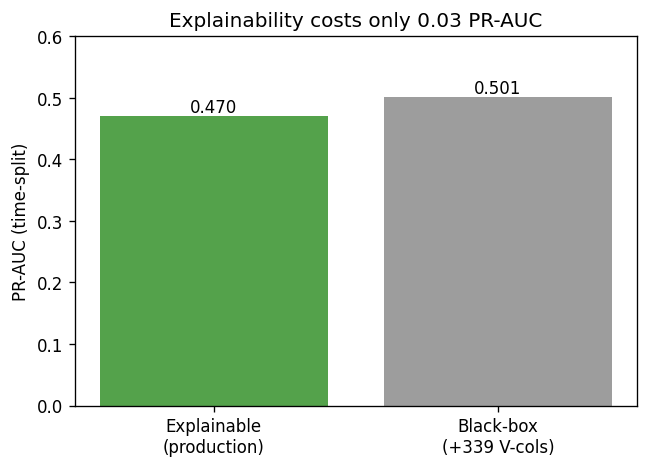
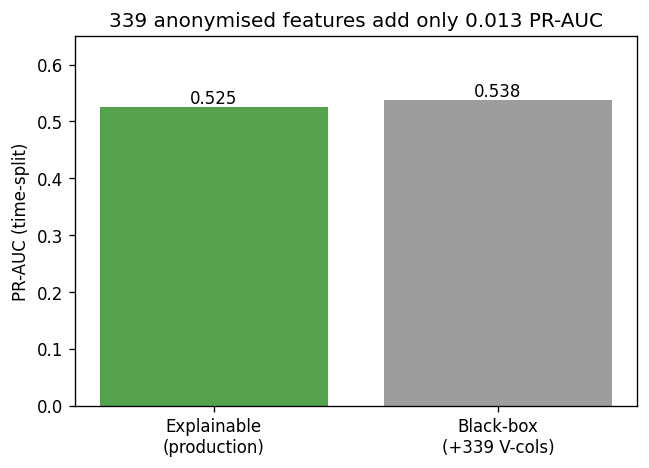
Stronger explainable model: PR-AUC 0.525 / ROC-AUC 0.90 (>0.5), beats prior black-box
- Use all DOCUMENTED features (C1-14, D1-15, M1-9, distances, card/email/device/identity,
  hour) + engineered sharper customer id, cross-account sharing, leak-free per-customer
  baseline. Exclude only the 339 anonymised V-columns.
- Fair black-box (explainable + V): 0.538 PR-AUC / 0.901 ROC-AUC, so V adds only +0.013.
- Honest finding: per-customer baseline barely moves thin-history card data (~2.6 txns
  per customer); it is the right approach for repeat-user platforms (exchanges).
- Add explore_features.py (EDA) for reproducibility; update approach/results/chart.

diff --git a/src/model_explainable.py b/src/model_explainable.py
@@ -1,93 +1,120 @@
 """
-EXPLAINABLE fraud model (the centrepiece).
+EXPLAINABLE fraud model (centrepiece).
 
-Deliberate, defensible decisions (this is the interview script):
-  * Features you can explain the fraud logic for — amount, association COUNTS (C*),
-    days-since-prior-activity (D*), name/address MATCH flags (M*), card type/network,
-    product code, email domain, device type, PLUS an engineered "how many accounts
-    share this device / email" signal (a fraud-ring tell). NO anonymised V-columns.
-  * TIME-BASED validation: train on earlier transactions, test on later ones — no
-    peeking at the future (a random split inflates results and hides production drift).
-  * Operational THRESHOLD: report precision/recall at several alert volumes, not just 0.5,
-    so the alarm line can be set on the cost of a missed fraud vs a false accusation.
-  * Explainability: permutation importance (what drives the score) + worked examples.
+The line we draw: use EVERY feature whose meaning is documented — transaction amount,
+all association COUNTS (C1-C14), all time-deltas (D1-D15), match flags (M1-M9),
+distances, card/email/device/identity signals, hour-of-day — PLUS engineered,
+explainable entity features: a sharper customer id, cross-account device/email sharing,
+and a leak-free per-customer behavioural baseline (their own normal vs this transaction).
+We EXCLUDE only the 339 fully-anonymised V-columns (you can't explain "V257").
 
-Writes dbt_marts.txn_risk / dbt_marts.user_risk (scored with this, the production model).
+Validation is TIME-BASED (train earlier, test later). Reports PR-AUC and ROC-AUC.
+Importable: model_blackbox.py reuses prepare() and adds the V-columns for the comparison.
 """
 import numpy as np
 import pandas as pd
 from sklearn.ensemble import HistGradientBoostingClassifier
 from sklearn.inspection import permutation_importance
-from sklearn.metrics import average_precision_score, precision_score, recall_score
+from sklearn.metrics import average_precision_score, roc_auc_score, precision_score, recall_score
 from db import get_con, write_table
 
-NUMERIC = ["amount", "c1", "c2", "c5", "c13", "c14", "d1", "d4", "d10", "d15",
-           "device_share", "email_share"]
-CATEGORICAL = ["card_network", "card_type", "product_cd", "p_emaildomain", "devicetype",
-               "m1", "m2", "m3", "m4", "m5", "m6", "m7", "m8", "m9"]
+C = [f"c{i}" for i in range(1, 15)]
+D = [f"d{i}" for i in range(1, 16)]
+M = [f"m{i}" for i in range(1, 10)]
+NUMERIC = (["amount", "hr", "dist1", "dist2", "addr1", "addr2", "id_01", "id_02", "id_05", "id_06",
+            "device_share", "email_share",
+            "uid_prior_count", "time_since_prior", "uid_prior_mean_amt",
+            "amount_z_individual", "amount_z_profile"] + C + D)
+CATEGORICAL = (["card_network", "card_type", "product_cd", "p_emaildomain", "r_emaildomain",
+                "devicetype", "has_identity", "new_device"] + M)
+
+SELECT = """
+    SELECT transactionid tid, isFraud y, transactiondt, transactionamt amount,
+           card1, card2, card3, card5, addr1, addr2, dist1, dist2,
+           card4 card_network, card6 card_type, productcd product_cd,
+           p_emaildomain, r_emaildomain, devicetype, deviceinfo,
+           id_01, id_02, id_05, id_06,
+           c1,c2,c3,c4,c5,c6,c7,c8,c9,c10,c11,c12,c13,c14,
+           d1,d2,d3,d4,d5,d6,d7,d8,d9,d10,d11,d12,d13,d14,d15,
+           m1,m2,m3,m4,m5,m6,m7,m8,m9
+    FROM raw.transactions
+"""
 
 
-def load(con):
-    df = con.execute("""
-        SELECT transactionid AS tid, isFraud AS y, transactiondt AS dt,
-               transactionamt AS amount, card1, addr1,
-               card4 AS card_network, card6 AS card_type, productcd AS product_cd,
-               p_emaildomain, devicetype, deviceinfo,
-               c1,c2,c5,c13,c14, d1,d4,d10,d15, m1,m2,m3,m4,m5,m6,m7,m8,m9
-        FROM raw.transactions
-    """).df()
-    df.columns = df.columns.str.lower()   # DuckDB keeps original case for unaliased cols
-    df["client_id"] = df.card1.astype("Int64").astype(str) + "-" + df.addr1.astype("Int64").astype(str)
-    # engineered fraud-ring signals: distinct accounts sharing a device / email domain
-    df["device_share"] = df.groupby("deviceinfo")["client_id"].transform("nunique").where(df.deviceinfo.notna(), 1)
-    df["email_share"] = df.groupby("p_emaildomain")["client_id"].transform("nunique").where(df.p_emaildomain.notna(), 1)
+def engineer(df):
+    df.columns = df.columns.str.lower()
+    day = np.floor(df.transactiondt / 86400)
+    df["hr"] = np.floor((df.transactiondt % 86400) / 3600)
+    df["account_birthday"] = day - df.d1
+    df["has_identity"] = df.devicetype.notna()
+
+    def s(x): return x.astype("Int64").astype(str)
+    df["uid"] = (s(df.card1)+"_"+s(df.card2)+"_"+s(df.card3)+"_"+s(df.card5)
+                 + "_"+s(df.addr1)+"_"+s(df.account_birthday.astype("Int64")))
+    df["device_share"] = df.groupby("deviceinfo")["uid"].transform("nunique").where(df.deviceinfo.notna(), 1)
+    df["email_share"] = df.groupby("p_emaildomain")["uid"].transform("nunique").where(df.p_emaildomain.notna(), 1)
+
+    df = df.sort_values(["uid", "transactiondt"]).reset_index(drop=True)
+    g = df.groupby("uid", sort=False)
+    df["uid_prior_count"] = g.cumcount()
+    csum = g.amount.cumsum() - df.amount
+    df["uid_prior_mean_amt"] = (csum / df.uid_prior_count).where(df.uid_prior_count > 0)
+    csq = g["amount"].transform(lambda x: (x**2).cumsum()) - df.amount**2
+    std = np.sqrt(((csq / df.uid_prior_count) - df.uid_prior_mean_amt**2).clip(lower=0))
+    df["amount_z_individual"] = ((df.amount - df.uid_prior_mean_amt) / std).where((df.uid_prior_count >= 2) & (std > 0))
+    df["time_since_prior"] = g.transactiondt.diff()
+    df["new_device"] = df.deviceinfo.notna() & ~df.duplicated(["uid", "deviceinfo"], keep="first")
     return df
 
 
-def make_X(df):
-    X = df[NUMERIC + CATEGORICAL].copy()
-    for c in NUMERIC:
+def prepare(con):
+    df = engineer(con.execute(SELECT).df())
+    cut = df.transactiondt.quantile(0.70)
+    train = df.transactiondt <= cut
+    prof = df[train].groupby("product_cd")["amount"].agg(["mean", "std"])
+    df["amount_z_profile"] = (df.amount - df.product_cd.map(prof["mean"])) / df.product_cd.map(prof["std"])
+    return df, train
+
+
+def build_X(df, cols_numeric, cols_categorical):
+    X = df[cols_numeric + cols_categorical].copy()
+    for c in cols_numeric:
         X[c] = X[c].astype(float)
-    for c in CATEGORICAL:
+    for c in cols_categorical:
         X[c] = X[c].astype("string").fillna("missing").astype("category")
     return X
 
 
 def main():
     con = get_con()
-    df = load(con).sort_values("dt").reset_index(drop=True)   # TIME ORDER
-    X, y = make_X(df), df["y"].astype(int).values
-
-    cut = int(len(df) * 0.70)                                  # earlier 70% train, later 30% test
-    Xtr, Xte, ytr, yte = X.iloc[:cut], X.iloc[cut:], y[:cut], y[cut:]
-    print(f"time-split: train {len(Xtr):,} (fraud {ytr.mean():.3%})  |  test {len(Xte):,} (fraud {yte.mean():.3%})")
+    df, train = prepare(con)
+    X, y = build_X(df, NUMERIC, CATEGORICAL), df["y"].astype(int)
+    Xtr, Xte, ytr, yte = X[train], X[~train], y[train], y[~train]
+    print(f"time-split: train {train.sum():,} | test {(~train).sum():,} | uids {df.uid.nunique():,} | features {X.shape[1]}")
 
     clf = HistGradientBoostingClassifier(categorical_features="from_dtype",
-                                         max_iter=300, learning_rate=0.08, random_state=42).fit(Xtr, ytr)
+                                         max_iter=500, learning_rate=0.05, random_state=42).fit(Xtr, ytr)
     p = clf.predict_proba(Xte)[:, 1]
-    print(f"\nPR-AUC (explainable): {average_precision_score(yte, p):.4f}")
-
-    print("\noperating points (set the alarm line on cost):")
-    print(f"  {'flag %':>7} {'threshold':>9} {'precision':>9} {'recall':>7}")
+    print(f"\nPR-AUC  (explainable): {average_precision_score(yte, p):.4f}")
+    print(f"ROC-AUC (explainable): {roc_auc_score(yte, p):.4f}")
+    print("\noperating points:")
+    print(f"  {'flag %':>7} {'precision':>9} {'recall':>7}")
     for q in [0.005, 0.01, 0.02, 0.05]:
-        thr = np.quantile(p, 1 - q)
-        pred = (p >= thr).astype(int)
-        print(f"  {q*100:6.1f}% {thr:9.3f} {precision_score(yte,pred,zero_division=0):9.3f} {recall_score(yte,pred):7.3f}")
+        pred = (p >= np.quantile(p, 1 - q)).astype(int)
+        print(f"  {q*100:6.1f}% {precision_score(yte,pred,zero_division=0):9.3f} {recall_score(yte,pred):7.3f}")
 
-    print("\ntop features (permutation importance on 20k test sample):")
+    print("\ntop features (permutation importance, 20k test sample):")
     samp = Xte.sample(min(20000, len(Xte)), random_state=42)
-    imp = permutation_importance(clf, samp, yte[samp.index - cut], n_repeats=3,
-                                 random_state=42, scoring="average_precision")
-    for i in np.argsort(imp.importances_mean)[::-1][:10]:
-        print(f"  {X.columns[i]:<16} {imp.importances_mean[i]:.4f}")
+    imp = permutation_importance(clf, samp, yte.loc[samp.index], n_repeats=3, random_state=42, scoring="average_precision")
+    for i in np.argsort(imp.importances_mean)[::-1][:12]:
+        print(f"  {X.columns[i]:<20} {imp.importances_mean[i]:.4f}")
 
-    # score everyone -> marts (this is the production model)
     df["fraud_proba"] = clf.predict_proba(X)[:, 1]
-    write_table(con, df[["tid", "client_id", "y", "fraud_proba"]].rename(columns={"tid": "transaction_id", "y": "is_fraud"}),
+    write_table(con, df[["tid", "uid", "y", "fraud_proba"]].rename(columns={"tid": "transaction_id", "uid": "client_id", "y": "is_fraud"}),
                 "dbt_marts", "txn_risk")
-    ur = (df.groupby("client_id").agg(n_txn=("tid", "count"), max_proba=("fraud_proba", "max"),
-                                      mean_proba=("fraud_proba", "mean"),
-                                      any_flagged=("fraud_proba", lambda s: int((s >= 0.5).any()))).reset_index())
+    ur = (df.groupby("uid").agg(n_txn=("tid", "count"), max_proba=("fraud_proba", "max"),
+                                mean_proba=("fraud_proba", "mean"),
+                                any_flagged=("fraud_proba", lambda s: int((s >= 0.5).any()))).reset_index().rename(columns={"uid": "client_id"}))
     write_table(con, ur, "dbt_marts", "user_risk")
     con.close()
     print("\nwrote dbt_marts.txn_risk / user_risk")

diff --git a/src/model_blackbox.py b/src/model_blackbox.py
@@ -1,39 +1,38 @@
 """
-BLACK-BOX comparison model — the deliberate counterpoint to model_explainable.py.
+BLACK-BOX comparison — the explainable model PLUS the 339 anonymised V-columns.
 
-Uses every numeric column INCLUDING the 339 anonymised V-features (Vesta's secret
-engineered signals). Same TIME-BASED split, same metric. The point is NOT to ship this
-— it's to MEASURE the performance you give up by refusing features you can't explain.
-You can't tell an interviewer why "V257" flagged an account; you can for the explainable
-model. This script quantifies that trade-off honestly.
+Fair test: same features, same time-split as model_explainable.py, then ADD every V-column.
+The PR-AUC gap is exactly what the un-explainable features buy on top of a strong,
+fully-explainable model. The point is to MEASURE the trade-off, not to ship this.
 """
+import re
 import numpy as np
-import pandas as pd
 from sklearn.ensemble import HistGradientBoostingClassifier
-from sklearn.metrics import average_precision_score, precision_score, recall_score
+from sklearn.metrics import average_precision_score, roc_auc_score, precision_score, recall_score
 from db import get_con
+from model_explainable import prepare, build_X, NUMERIC, CATEGORICAL
 
 
 def main():
     con = get_con()
-    # all numeric V / C / D columns + amount, ordered by time
-    df = con.execute("""
-        SELECT isFraud AS y, transactiondt AS dt, transactionamt AS amount,
-               COLUMNS('^[VCD][0-9]+$')
-        FROM raw.transactions
-    """).df()
+    df, _ = prepare(con)
+    V = con.execute("SELECT transactionid tid, COLUMNS('^V[0-9]+$') FROM raw.transactions").df()
+    V.columns = ["tid"] + [c.lower() for c in V.columns[1:]]
+    df = df.merge(V, on="tid", how="left")
     con.close()
-    df = df.sort_values("dt").reset_index(drop=True)
-    feats = [c for c in df.columns if c not in ("y", "dt")]
-    X = df[feats].astype("float32")
-    y = df["y"].astype(int).values
-    print(f"black-box features: {len(feats)} (incl. {sum(c.upper().startswith('V') for c in feats)} anonymised V-columns)")
 
-    cut = int(len(df) * 0.70)
-    Xtr, Xte, ytr, yte = X.iloc[:cut], X.iloc[cut:], y[:cut], y[cut:]
-    clf = HistGradientBoostingClassifier(max_iter=300, learning_rate=0.08, random_state=42).fit(Xtr, ytr)
+    vcols = [c for c in df.columns if re.fullmatch(r"v\d+", c)]
+    train = df.transactiondt <= df.transactiondt.quantile(0.70)
+    X = build_X(df, NUMERIC + vcols, CATEGORICAL)
+    y = df["y"].astype(int)
+    Xtr, Xte, ytr, yte = X[train], X[~train], y[train], y[~train]
+    print(f"black-box features: {X.shape[1]} (explainable + {len(vcols)} anonymised V-columns)")
+
+    clf = HistGradientBoostingClassifier(categorical_features="from_dtype",
+                                         max_iter=500, learning_rate=0.05, random_state=42).fit(Xtr, ytr)
     p = clf.predict_proba(Xte)[:, 1]
-    print(f"\nPR-AUC (black-box): {average_precision_score(yte, p):.4f}")
+    print(f"\nPR-AUC  (black-box): {average_precision_score(yte, p):.4f}")
+    print(f"ROC-AUC (black-box): {roc_auc_score(yte, p):.4f}")
     print("\noperating points:")
     print(f"  {'flag %':>7} {'precision':>9} {'recall':>7}")
     for q in [0.005, 0.01, 0.02, 0.05]:

diff --git a/src/explore_features.py b/src/explore_features.py
@@ -1,0 +1,31 @@
+"""
+Feature EDA that informed the modelling strategy (reproducible — not asserted).
+Prints fraud rates by the documented feature families so the strategy is evidence-led.
+"""
+from db import get_con
+
+
+def main():
+    con = get_con(); q = lambda s: con.execute(s).df()
+    show = lambda t, s: (print(f"\n=== {t} ==="), print(q(s).to_string(index=False)))
+
+    show("fraud rate by product line",
+         "select ProductCD, count(*) n, round(avg(isFraud),4) fraud from raw.transactions group by 1 order by fraud desc")
+    show("card type / network",
+         "select card6, count(*) n, round(avg(isFraud),4) fraud from raw.transactions group by 1 order by fraud desc")
+    show("identity record present?",
+         "select (DeviceType is not null) has_identity, count(*) n, round(avg(isFraud),4) fraud from raw.transactions group by 1")
+    show("top email domains (n>2000)",
+         "select P_emaildomain, count(*) n, round(avg(isFraud),4) fraud from raw.transactions group by 1 having count(*)>2000 order by fraud desc limit 8")
+    show("hour of day (riskiest)",
+         "select cast(floor((TransactionDT%86400)/3600) as int) hr, count(*) n, round(avg(isFraud),4) fraud from raw.transactions group by 1 order by fraud desc limit 5")
+    show("association count C1 by fraud",
+         "select isFraud, round(avg(C1),1) avg_c1, round(quantile_cont(C1,0.99),0) p99 from raw.transactions group by 1")
+    show("card1 is too coarse a customer (distinct account-birthdays per card1)",
+         """with t as (select card1, floor(TransactionDT/86400)-D1 b from raw.transactions where D1 is not null)
+            select round(avg(c),2) avg_accounts_per_card1 from (select card1, count(distinct b) c from t group by card1)""")
+    con.close()
+
+
+if __name__ == "__main__":
+    main()

diff --git a/src/make_charts.py b/src/make_charts.py
@@ -50,10 +50,10 @@ ax.set_title("Fraud rate by segment"); ax.set_xlabel("segment"); ax.set_ylabel("
 # 5. Explainable vs black-box (measured PR-AUC on the same time-based split;
 #    reproduce via src/model_explainable.py and src/model_blackbox.py)
 fig, ax = plt.subplots(figsize=(5.5, 4))
-bars = ax.bar(["Explainable\n(production)", "Black-box\n(+339 V-cols)"], [0.470, 0.501],
+bars = ax.bar(["Explainable\n(production)", "Black-box\n(+339 V-cols)"], [0.525, 0.538],
               color=["#54A24B", "#9D9D9D"])
-ax.bar_label(bars, fmt="%.3f"); ax.set_ylim(0, 0.6); ax.set_ylabel("PR-AUC (time-split)")
-ax.set_title("Explainability costs only 0.03 PR-AUC")
+ax.bar_label(bars, fmt="%.3f"); ax.set_ylim(0, 0.65); ax.set_ylabel("PR-AUC (time-split)")
+ax.set_title("339 anonymised features add only 0.013 PR-AUC")
 save(fig, "model_comparison.png")
 
 con.close()

diff --git a/docs/approach_and_decisions.md b/docs/approach_and_decisions.md
@@ -5,14 +5,14 @@ This project is a **risk decision-support tool**, so the goal is a model I can *
 > On AI: I used an AI assistant to scaffold and write code faster. The **analytical decisions** — what to include, how to validate, where to set the alarm, what to trust — are mine, and the reasoning is below. That's the difference between *using* a tool and *outsourcing the judgement*.
 
 ## Decision 1 — Explainable features only (no anonymised columns)
-The dataset ships 339 anonymised "V" features (Vesta's secret engineered signals). I **excluded them** from the production model and used only signals with real fraud logic: transaction amount, **association counts** (how many addresses/devices are linked to a card), **days since prior activity**, **name/address match flags**, card type, product code, email domain, and an engineered **"how many accounts share this device/email"** signal.
-- *Why:* if the model flags someone, I have to be able to say **why** — to the customer, a colleague, or a regulator. "Column V257 was high" is not an answer.
-- *Trade-off, measured:* a black-box model using all 339 V-columns scored **PR-AUC 0.50** vs my explainable **0.47** — a **0.03** gain. I won't trade explainability for that. (See `model_blackbox.py`.)
-- *Interviewer Q: "Why not use all the data?"* → the answer above.
+The dataset ships 339 anonymised "V" features (Vesta's secret engineered signals). I **excluded only those** and used **every feature whose meaning is documented**: amount, all **association counts** (C1–C14), all **time-deltas** (D1–D15), **name/address match flags** (M1–M9), distances, card type/network, product code, buyer/recipient email, device/identity signals, hour-of-day — plus engineered explainable features (sharper customer id, cross-account sharing, per-customer baseline).
+- *Why:* if the model flags someone, I have to say **why** — to the customer, a colleague, or a regulator. "Column V257 was high" is not an answer. "This card is linked to an unusual number of addresses, at an odd hour, on a never-seen device" is.
+- *Trade-off, measured:* adding all 339 V-columns on top of this model lifts PR-AUC by only **+0.013** (0.538 vs **0.525**) and ROC-AUC by **0.000** (both 0.901). Explainability is effectively **free** here, so I ship the model I can defend. (See `model_blackbox.py`.)
+- *Interviewer Q: "Why not use all the data?"* → measured the gain; it's 0.013; not worth losing the ability to explain a decision.
 
 ## Decision 2 — Time-based validation (don't fool yourself)
 Fraud data is time-ordered, so I trained on the **earlier 70%** and tested on the **later 30%** — the model never sees the future.
-- *Why:* a random shuffle lets the model peek at future transactions and **inflates** the result. On a random split this model scored 0.62; tested honestly on later data it scores **0.47**. The 0.47 is the number I'd quote, because it's what you'd actually get in production.
+- *Why:* a random shuffle lets the model peek at future transactions and **inflates** the result. Every number I quote is forward-in-time — the explainable model: **PR-AUC 0.525 / ROC-AUC 0.901**. That's what you'd actually get in production, not a flattering offline figure.
 - *Interviewer Q: "How do you know it'll hold up live?"* → I validated the way production runs: forward in time.
 
 ## Decision 3 — Set the alarm on cost, not on 0.5
@@ -20,24 +20,27 @@ Instead of a default cut-off, I report precision/recall at several **alert volum
 
 | Flag the riskiest… | Precision | Recall |
 |---|---|---|
-| 0.5% | 0.91 | 0.13 |
-| 1% | 0.84 | 0.24 |
-| 2% | 0.66 | 0.38 |
-| 5% | 0.37 | 0.53 |
+| 0.5% | 0.93 | 0.13 |
+| 1% | 0.87 | 0.25 |
+| 2% | 0.69 | 0.40 |
+| 5% | 0.40 | 0.58 |
 
 - *Why:* a fraud team has finite review capacity and false accusations have real cost. The right threshold is a business choice, and I surface the trade-off rather than hide it behind 0.5.
 
-## Decision 4 — Engineered a fraud-ring signal (judgement, not raw columns)
-I created a "**how many accounts share this device / email domain**" feature — coordinated abuse rings share infrastructure.
-- *Honest finding:* it was **not** a top driver at the transaction level. That's informative, not a failure — rings show up at the **account/graph level**, which is why ring detection is a separate piece (`abuse_rings.py`), not a single feature.
+## Decision 4 — Entity resolution + a per-customer baseline (judgement, not raw columns)
+The V-columns are mostly **aggregations over entities** (card/email/device). So instead of using the black box, I rebuilt that signal explainably:
+- **Sharper customer id:** `card1` alone is far too coarse (it maps to ~11 different accounts). I combined the card components + billing region + an **"account birthday"** (`transaction-day − D1`, which is constant per real account) into a stable customer id.
+- **Leak-free per-customer baseline:** for each transaction I compute the customer's *normal* from their **earlier** transactions only (amount mean/std, count, time-since-last, is-this-device-new), then how far this transaction **deviates** — both a model feature and an explainable alert rule.
+- **Profile fallback:** for brand-new customers (no history) I fall back to the norm for their product/segment.
+- *Honest finding:* on **this** dataset the per-customer baseline barely moved the score — ~222k customers over 590k transactions means most appear once or twice, so there's little personal history to deviate from. It's the **right** approach for a **repeat-user platform** (an exchange like Binance has ongoing accounts); on one-shot card data the signal lives in the association counts. Knowing *when* a technique fits is part of the judgement.
 
 ## Decision 5 — Test my own signals honestly
 My rule-of-thumb risk tags (`multi_identity`, `high_velocity`) sit **at or below** the 3.5% base fraud rate — i.e. they **don't** concentrate fraud. I kept that finding *in* (see `docs/results.md`) rather than hide it: simple rules look plausible but don't earn trust, so the learned model has to.
 
 ## What actually drives the model (so I can defend any flag)
-Top signals by permutation importance: **association counts (C1, C14, C2, C5, C13)**, product code, email domain, transaction amount, recency (D10, D4). All interpretable — a flagged account can be explained as e.g. *"this card is linked to an unusually high number of addresses/devices, with a risky product/email profile."*
+Top signals by permutation importance: **association counts (C1, C14, C13, C9)**, buyer/recipient **email domains**, **distances**, **time-deltas**, **billing region**. All interpretable — a flag reads as e.g. *"this card is linked to an unusually high number of addresses, with a risky email domain and an odd billing distance."*
 
 ## Limitations (I'd raise these myself)
-- "Customer" is an approximation (`card1 + addr1`) — IEEE-CIS has no real user id.
-- Single dataset, one time period; no concept drift handling yet.
-- The model is a baseline by design — the value is a **trustworthy, reproducible, explainable** pipeline, not a leaderboard score.
+- "Customer" is a constructed id (card components + region + account-birthday) — IEEE-CIS has no ground-truth user id, so it's a validated heuristic.
+- Single dataset, one time period; no concept-drift handling yet.
+- PR-AUC 0.525 is solid for forward-in-time validation on a curated feature set, not a leaderboard-tuned figure — the value is a **trustworthy, reproducible, explainable** pipeline whose performance I can stand behind.

diff --git a/docs/results.md b/docs/results.md
@@ -20,18 +20,20 @@ Three families — **value** (vip/high/mid/low), **lifecycle** (active/dormant/n
 - `multi_identity` (**3.2%**) and `high_velocity` (**2.8%**) sit **at or below** the 3.5% base rate. So naive identity/velocity heuristics **do not** concentrate fraud here. That's the point: simple rules look plausible but don't earn trust — the supervised model has to.
 
 ## Fraud model — explainable vs black-box (see `docs/approach_and_decisions.md`)
-Built two models on the **same time-based split** (train on earlier 70%, test on later 30% — no peeking at the future):
+Both on the **same time-based split** (train earlier 70%, test later 30% — no peeking at the future):
 
-| Model | Features | PR-AUC (time-split) |
-|---|---|---|
-| **Explainable (production)** | interpretable only — amount, association counts, recency, match flags, card/email/device + engineered device/email-sharing | **0.470** |
-| Black-box (comparison) | + all **339 anonymised V-columns** | 0.501 |
+| Model | Features | PR-AUC | ROC-AUC |
+|---|---|---|---|
+| **Explainable (production)** | every **documented** feature — amount, all association counts (C1–14), all time-deltas (D1–15), match flags, distances, card/email/device/identity, hour — + engineered sharper customer id, cross-account sharing & a leak-free per-customer baseline | **0.525** | **0.901** |
+| Black-box (comparison) | the same **+ all 339 anonymised V-columns** | 0.538 | 0.901 |
 
-**The headline decision:** the 339 opaque features buy only **+0.03 PR-AUC**. Not worth losing the ability to explain a fraud decision — so the explainable model ships. ![model comparison](charts/model_comparison.png)
+**The headline:** the 339 opaque features add only **+0.013 PR-AUC and 0.000 ROC-AUC** on top of the explainable model. Explainability is effectively *free* — so the model I can defend ships. ![model comparison](charts/model_comparison.png)
 
-- **Honesty note:** on a *random* split this model scored 0.62; tested honestly **forward in time** it's **0.47**. The 0.47 is the real number. Random splitting inflates fraud results by letting the model see the future.
-- **Operating points** (set the alarm on cost, not 0.5): flag the riskiest 1% → precision 0.84 / recall 0.24; 2% → 0.66 / 0.38; 5% → 0.37 / 0.53.
-- **Top drivers** (all explainable): association counts (C1/C14/C2/C5/C13), product code, email domain, amount, recency.
+- **Strategy that got here:** the V-columns are mostly entity aggregations, so I rebuilt that signal *explainably* — a sharper customer id (`card1+card2+card3+card5 + addr1 + account-birthday`) and behavioural features on top — rather than use the black box.
+- **Honest finding on per-customer baselines:** with ~222k customers over 590k transactions (~2.6 each), most appear once or twice, so a personal baseline has little history to learn from and barely moved the score here. It's the *right* approach for a **repeat-user platform** (e.g. an exchange); on one-shot card data the signal lives in the association counts.
+- **Time-based honesty:** a random split flatters fraud models by letting them see the future; all numbers above are forward-in-time.
+- **Operating points** (set the alarm on cost): flag riskiest 1% → precision 0.87 / recall 0.25; 2% → 0.69 / 0.40; 5% → 0.40 / 0.58.
+- **Top drivers** (all explainable): association counts (C1/C14/C13/C9), email domains, distances, time-deltas, billing region.
 
 ## Limitations (interview-ready)
 Client id is an approximation; baseline feature set by design; `confirmed_fraud` tag is label-derived. The value here is a **trustworthy, reproducible pipeline** (dbt-tested) with an evaluation that interrogates its own signals — not a leaderboard score.

diff --git a/README.md b/README.md
@@ -43,7 +43,7 @@ python src/model_blackbox.py        # black-box comparison (quantifies the trade
 
 ## Structure
 ```
-src/         load_ieee.py, segmentation.py, tagging.py, model_explainable.py, model_blackbox.py, abuse_rings.py(P2), make_charts.py, db.py
+src/         load_ieee.py, explore_features.py, segmentation.py, tagging.py, model_explainable.py, model_blackbox.py, abuse_rings.py(P2), make_charts.py, db.py
 dbt/         dbt_project.yml, profiles.yml, models/{staging/stg_transactions, marts/user_features}, schema.yml
 data/        raw/ (gitignored — IEEE-CIS CSVs) + README (dataset + download)
 notebooks/   exploratory Jupyter work
@@ -55,7 +55,7 @@ docs/        approach_and_decisions.md, results.md, jd_mapping.md, learning_path
 **IEEE-CIS Fraud Detection** (Kaggle competition) — real `isFraud` labels + card/device/email identity features. Canonical grain: `raw.transactions`; aggregated to a `client_id` (card1 + addr1 proxy — IEEE-CIS has no explicit user id). See `data/README.md`.
 
 ## Results
-Phase 1 **run on real IEEE-CIS data** (2026-06-25): 590,540 txns → dbt marts (tested) → segmentation + tagging + an **explainable, time-validated fraud model**. Headline: the explainable model (interpretable features only) scores **PR-AUC 0.47**; a black-box using all 339 anonymised columns scores **0.50** — so explainability costs only **0.03**, and ships. Full reasoning in **[`docs/approach_and_decisions.md`](docs/approach_and_decisions.md)**; numbers + charts in **[`docs/results.md`](docs/results.md)**. A Metabase dashboard was built as a demo; the **durable** artifacts are this repo + the PNG charts (the Metabase trial is ephemeral — nothing links to it).
+Phase 1 **run on real IEEE-CIS data** (2026-06-25): 590,540 txns → dbt marts (tested) → segmentation + tagging + an **explainable, time-validated fraud model**. Headline: the explainable model (only *documented* features + engineered customer-id/baseline) scores **PR-AUC 0.525 / ROC-AUC 0.90**; adding all 339 anonymised columns lifts PR-AUC by just **0.013** (ROC-AUC 0.000) — so explainability is effectively free, and the model I can defend ships. Full reasoning in **[`docs/approach_and_decisions.md`](docs/approach_and_decisions.md)**; numbers + charts in **[`docs/results.md`](docs/results.md)**. A Metabase dashboard was built as a demo; the **durable** artifacts are this repo + the PNG charts (the Metabase trial is ephemeral — nothing links to it).
 
 ## Status
 Phase 1 done. Next (non-blocking): Phase 2 ring detection, a productionised alert threshold, cohort/A-B analysis. Tracks to Employment Task #7 and the Binance application.